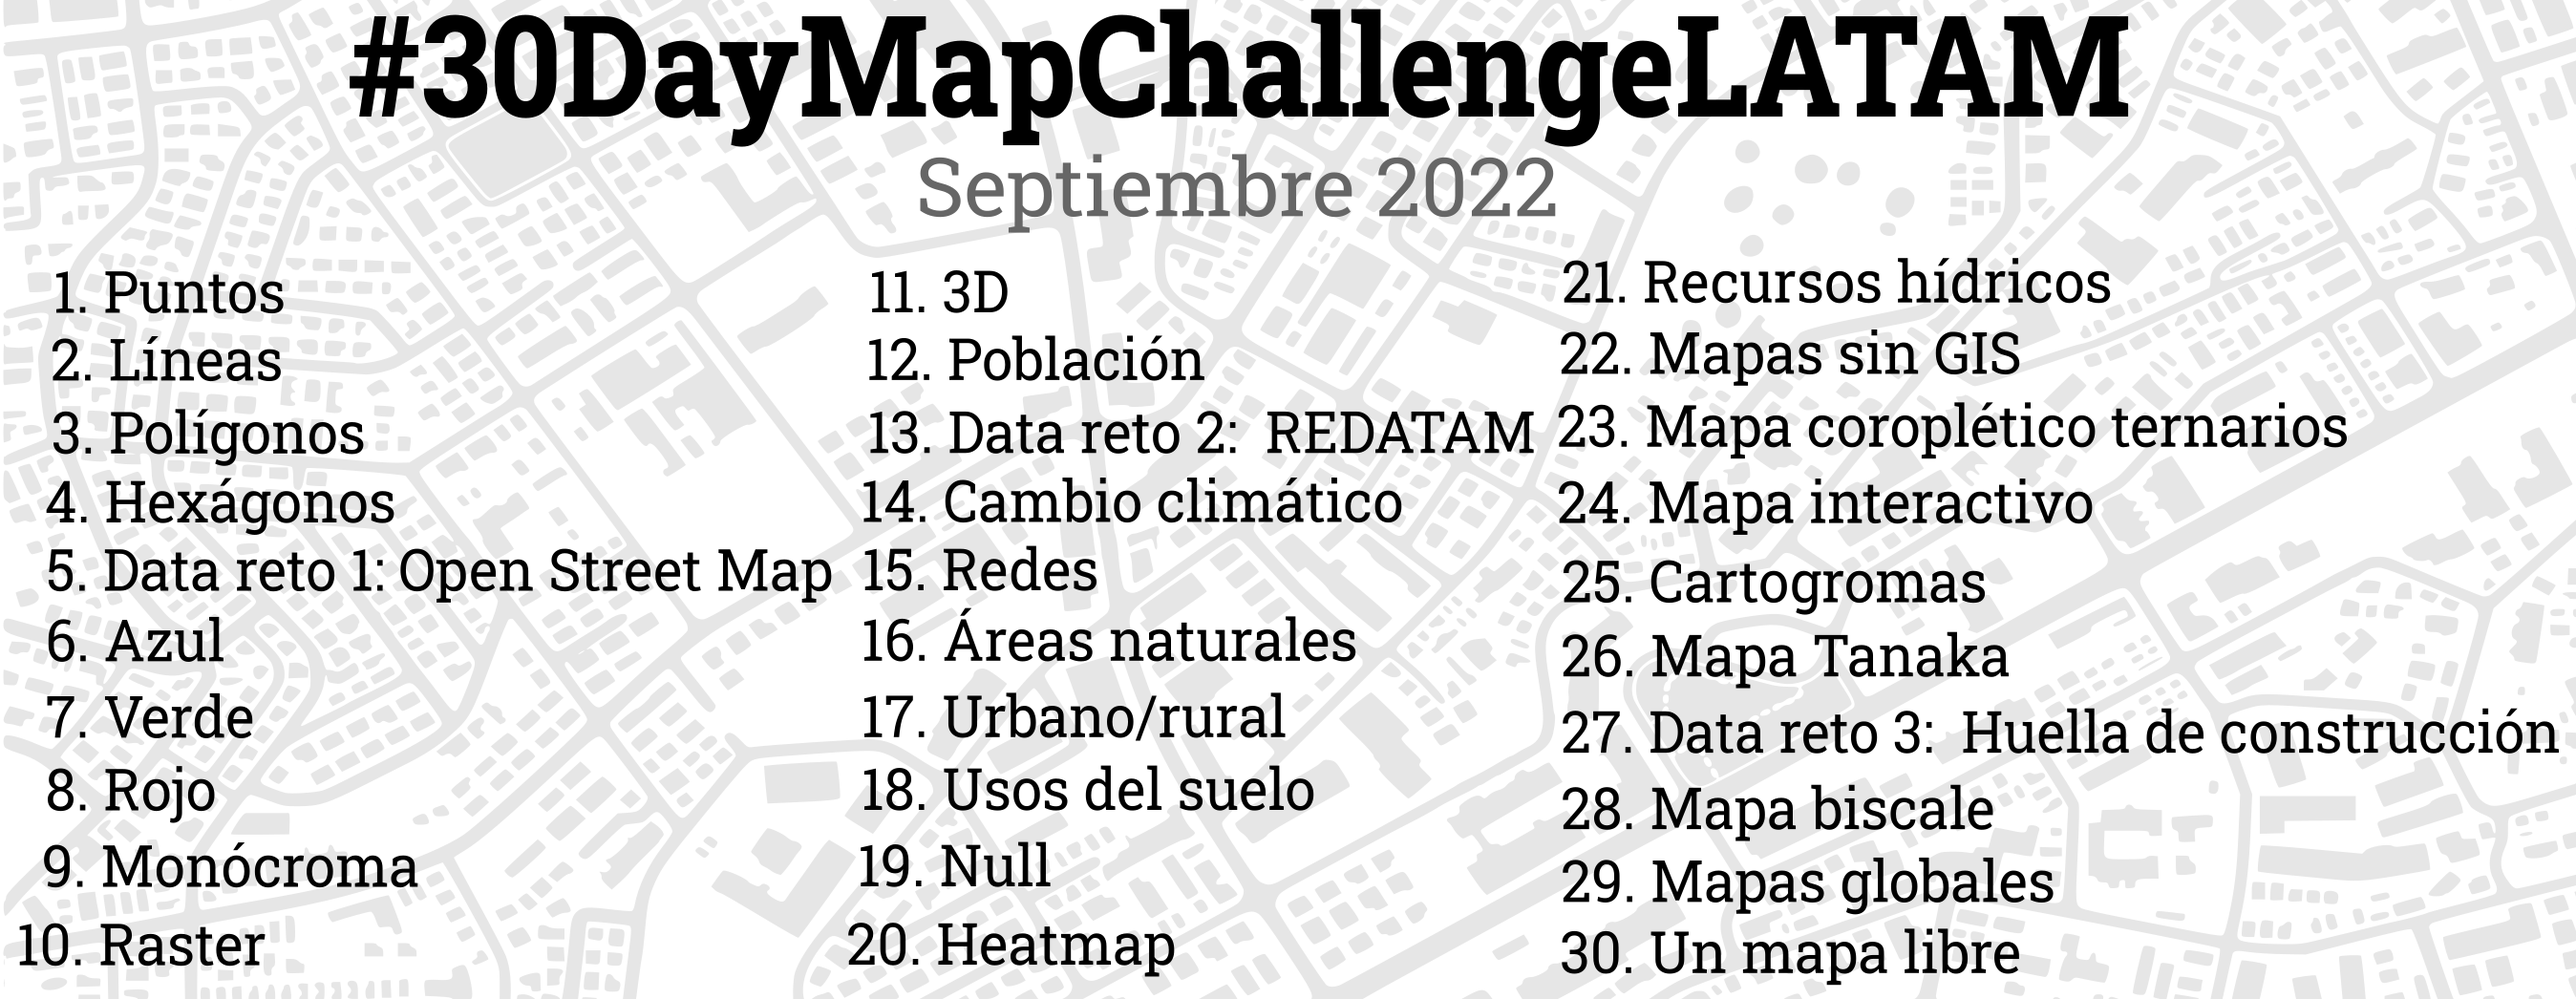
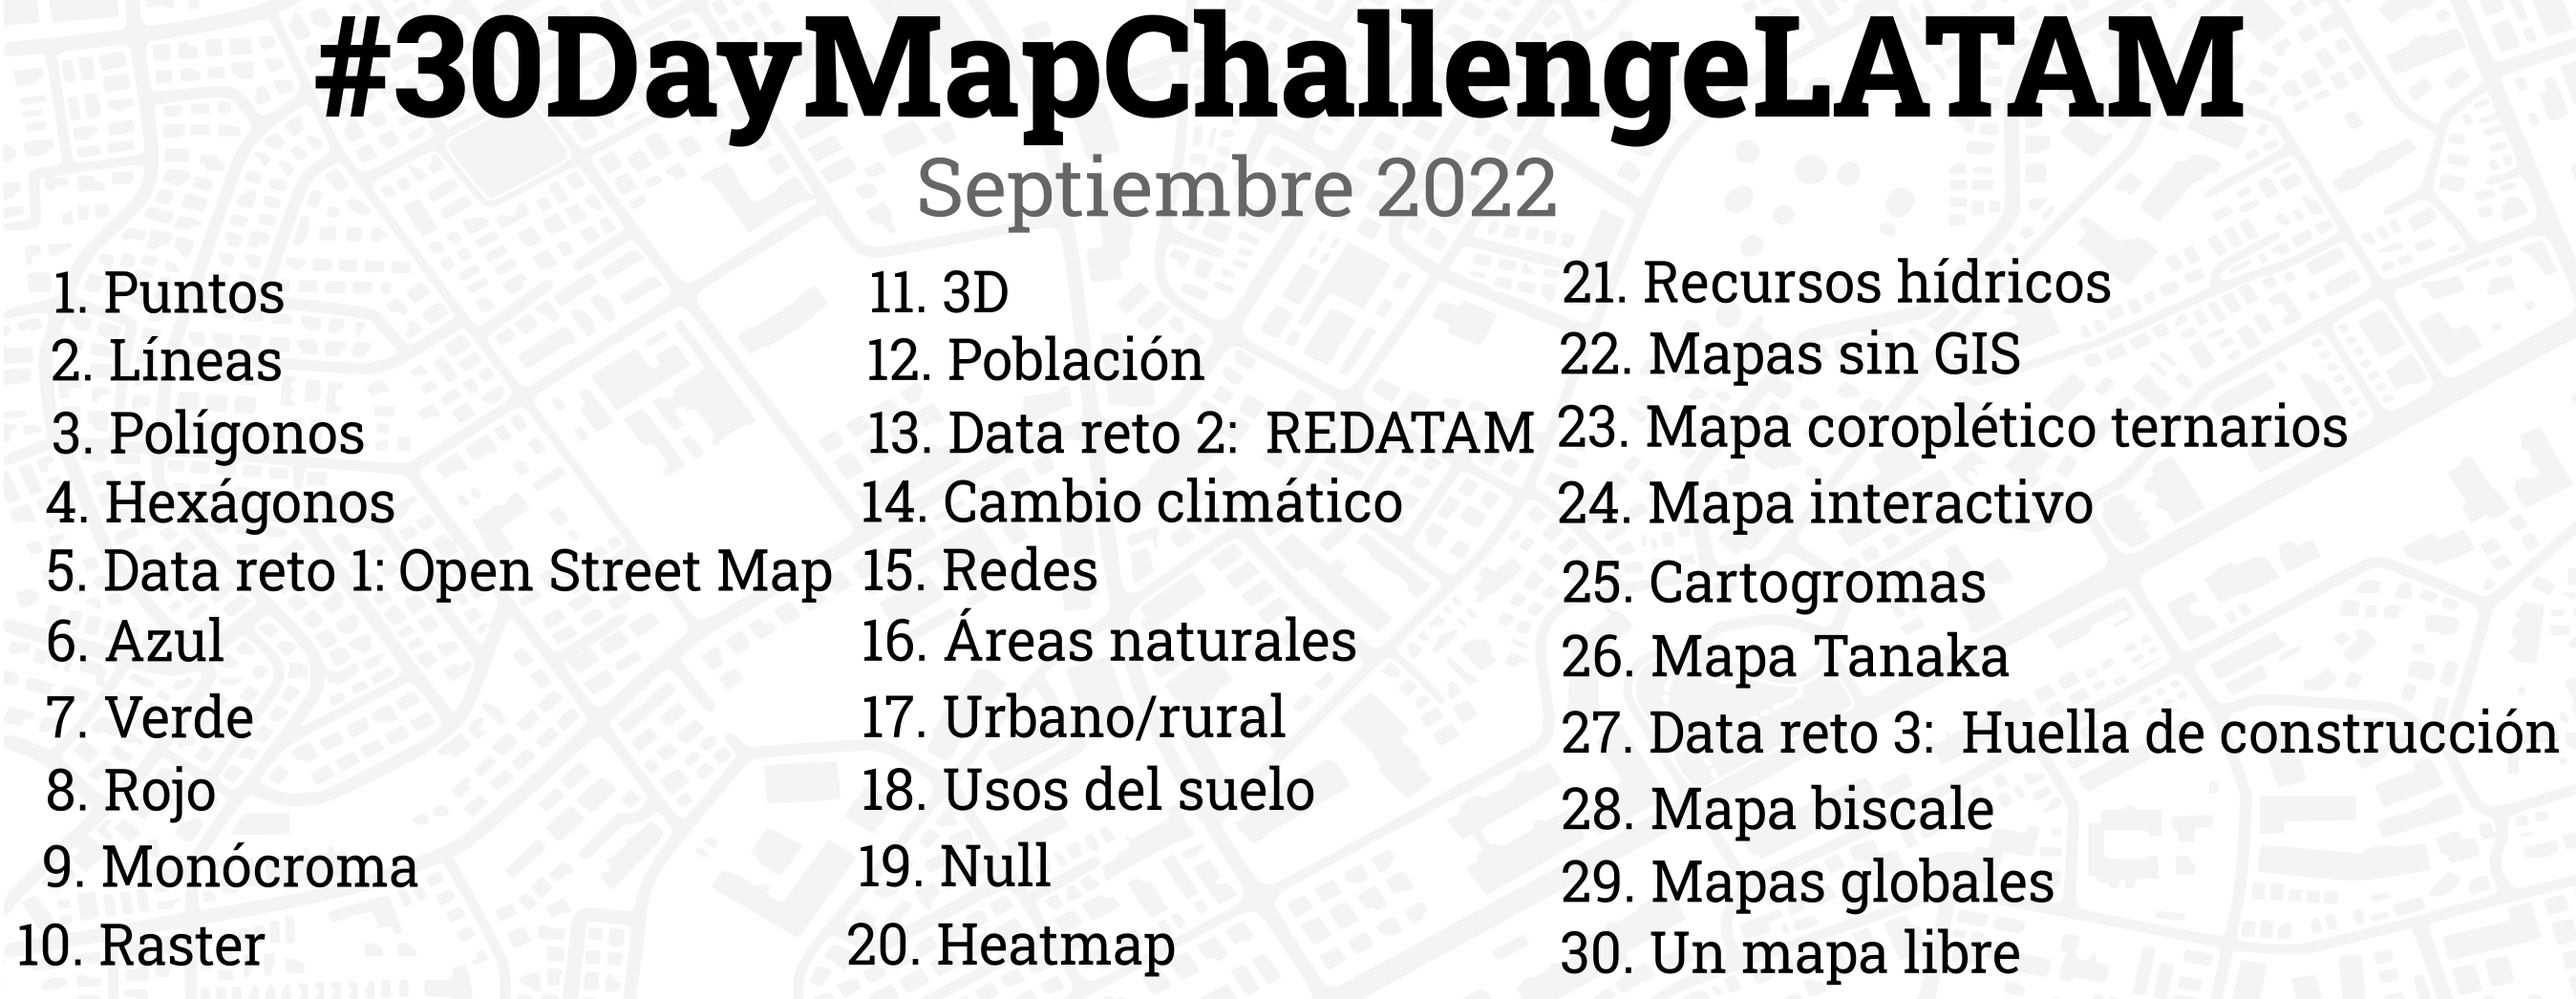
update

Changed region(s): [[0.3115, 0.0, 0.8721, 0.153], [0.1246, 0.0, 0.2803, 0.1224]]

diff --git a/docs/presentacion.md b/docs/presentacion.md
@@ -6,7 +6,7 @@ tags:
 
 ## **1. 30daymapchallengelatam** 🌎
 
-<img src="https://raw.githubusercontent.com/ambarja/30daymapchallengelatam/2c68e67a0813f40e9c0117d62d2b62471b70c84d/flyer/flyer.svg" width="100%"/>
+<img src="https://raw.githubusercontent.com/ambarja/30daymapchallengelatam/e1f4ae41f8e7aefcbf410d95f9eb69b3e3e610c2/flyer/flyer.svg" width="100%"/>
 
 🗺 Mapatón orientada a compartir mapas temáticos por cada día del mes de septiembre del presente año 📅 basados en las reglas propuestas del reto, la idea es crea y publicar con el hashtag #30daymapchallengelatam en Twitter o Facebook. No tienes que registrarte en ningún lado para participar. No hay restricciones sobre las herramientas, las tecnologías o los datos que se utilizan en tus mapas. Hacer menos de 30 también está bien (¡Hacer los 30 es muy difícil!), ánimate a participar y se parte de este movimiento dentro de Latinoamérica.
 
